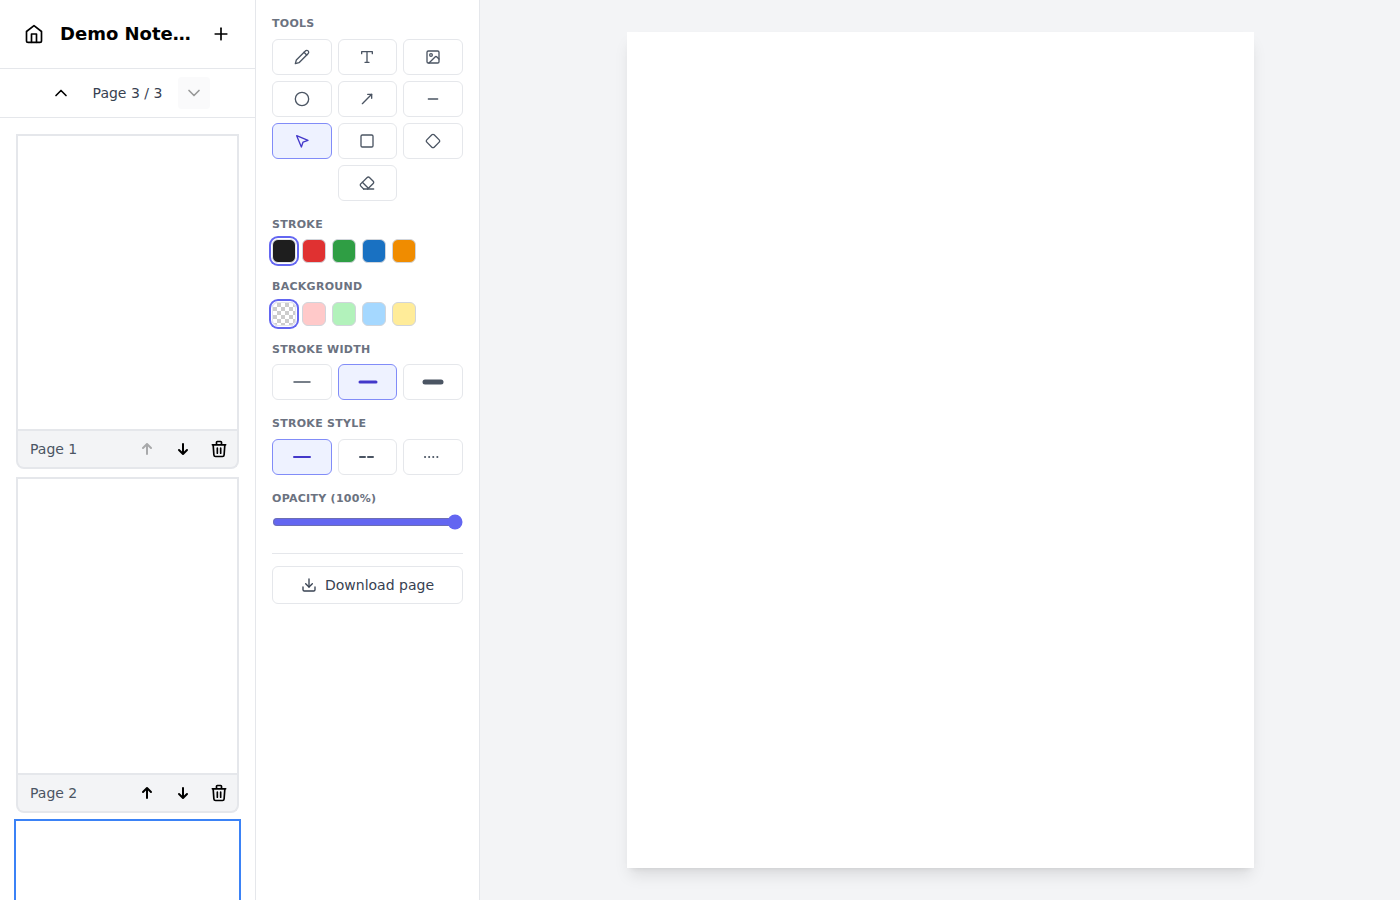
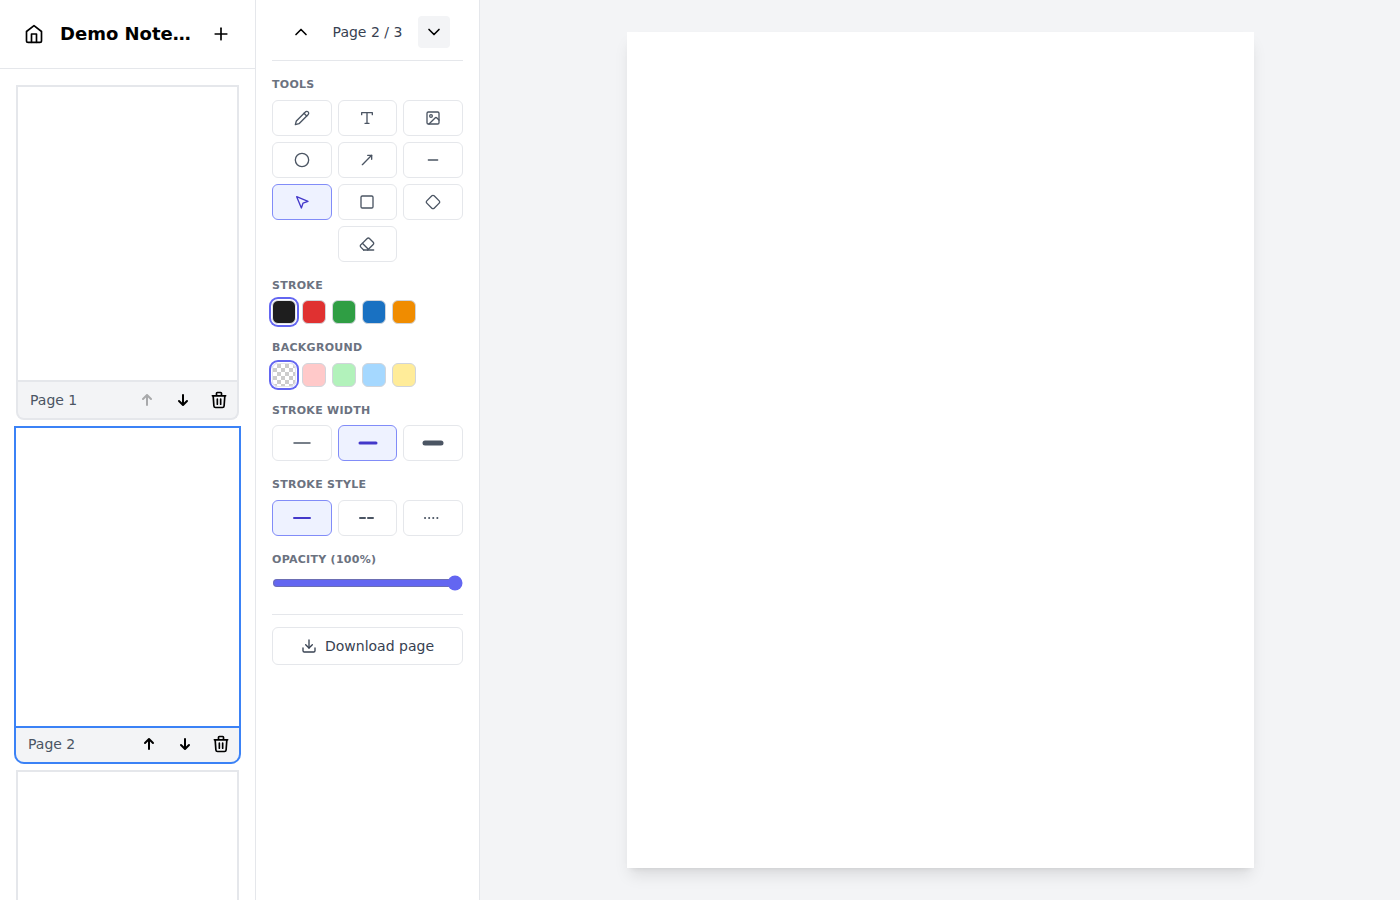
Move page nav into the tools rail, above the tools
Per review on #9: place the "Page X / N" indicator and its up/down
navigation at the top of the tools control rail (EditorControls), above
the Tools section, instead of in the preview sidebar. NotebookEditor
passes the current page number, total, and prev/next handlers down as
props. Keeps the page navigation out of the canvas column so the
page-height calculation and scroll behaviour are unaffected.

Claude-Session: https://claude.ai/code/session_01M6VdjEZY35h7x9wHv1PyAv

diff --git a/src/components/NotebookEditor.tsx b/src/components/NotebookEditor.tsx
@@ -1,7 +1,7 @@
 import { useState, useCallback, useMemo, useEffect, useRef } from 'react';
 import { Excalidraw, exportToCanvas, getCommonBounds } from '@excalidraw/excalidraw';
 import type { ExcalidrawImperativeAPI, NormalizedZoomValue } from '@excalidraw/excalidraw/types/types';
-import { ChevronUp, ChevronDown, Home } from 'lucide-react';
+import { Home } from 'lucide-react';
 import { PagePreview } from './PagePreview';
 import { EditorControls, type ControlsSnapshot } from './EditorControls';
 import { measureText, LINE_HEIGHTS } from '../lib/textMeasure';
@@ -568,30 +568,6 @@ export function NotebookEditor({ pages, onPagesChange, onBack, notebookName }: N
             </div>
           </div>
         </div>
-        {/* Page navigation: current page number + up/down between pages. Lives
-            here in the sidebar (not above the canvas) so it doesn't affect the
-            canvas area's height calculation. */}
-        <div className="flex items-center justify-center gap-4 px-4 py-2 border-b border-gray-200">
-          <button
-            onClick={goToPreviousPage}
-            disabled={currentPageIndex === 0}
-            title="Previous page"
-            className="p-1.5 rounded hover:bg-gray-100 disabled:opacity-40 disabled:cursor-not-allowed"
-          >
-            <ChevronUp className="w-5 h-5" />
-          </button>
-          <span className="text-sm font-medium text-gray-700 tabular-nums select-none">
-            Page {currentPageIndex + 1} / {pages.length}
-          </span>
-          <button
-            onClick={goToNextPage}
-            disabled={currentPageIndex === pages.length - 1}
-            title="Next page"
-            className="p-1.5 rounded hover:bg-gray-100 disabled:opacity-40 disabled:cursor-not-allowed"
-          >
-            <ChevronDown className="w-5 h-5" />
-          </button>
-        </div>
         {/* Previews Container */}
         <div className="flex-1 overflow-y-auto p-4">
           {pages.map((page, index) => (
@@ -615,6 +591,10 @@ export function NotebookEditor({ pages, onPagesChange, onBack, notebookName }: N
           overlap the page in Excalidraw's mobile layout (page < 730px wide). */}
       <EditorControls
         snapshot={snapshot}
+        currentPageNumber={currentPageIndex + 1}
+        totalPages={pages.length}
+        onPrevPage={goToPreviousPage}
+        onNextPage={goToNextPage}
         onSetTool={setTool}
         onSetStrokeColor={setStrokeColor}
         onSetBackground={setBackground}

diff --git a/src/components/EditorControls.tsx b/src/components/EditorControls.tsx
@@ -12,6 +12,8 @@ import {
   PenTool,
   Code,
   Download,
+  ChevronUp,
+  ChevronDown,
 } from 'lucide-react';
 import type { ComponentType } from 'react';
 
@@ -35,6 +37,10 @@ export interface ControlsSnapshot {
 
 interface EditorControlsProps {
   snapshot: ControlsSnapshot;
+  currentPageNumber: number;
+  totalPages: number;
+  onPrevPage: () => void;
+  onNextPage: () => void;
   onSetTool: (tool: string) => void;
   onSetStrokeColor: (color: string) => void;
   onSetBackground: (color: string) => void;
@@ -225,6 +231,10 @@ function PillButton({
 
 export function EditorControls({
   snapshot,
+  currentPageNumber,
+  totalPages,
+  onPrevPage,
+  onNextPage,
   onSetTool,
   onSetStrokeColor,
   onSetBackground,
@@ -260,6 +270,30 @@ export function EditorControls({
   return (
     <div className="w-56 min-w-[14rem] flex flex-col bg-white border-r border-gray-200 overflow-y-auto">
       <div className="p-4">
+        {/* Page navigation: current page number + up/down between pages, above
+            the tools. */}
+        <div className="flex items-center justify-center gap-4 mb-4 pb-3 border-b border-gray-200">
+          <button
+            onClick={onPrevPage}
+            disabled={currentPageNumber <= 1}
+            title="Previous page"
+            className="p-1.5 rounded hover:bg-gray-100 disabled:opacity-40 disabled:cursor-not-allowed"
+          >
+            <ChevronUp className="w-5 h-5" />
+          </button>
+          <span className="text-sm font-medium text-gray-700 tabular-nums select-none">
+            Page {currentPageNumber} / {totalPages}
+          </span>
+          <button
+            onClick={onNextPage}
+            disabled={currentPageNumber >= totalPages}
+            title="Next page"
+            className="p-1.5 rounded hover:bg-gray-100 disabled:opacity-40 disabled:cursor-not-allowed"
+          >
+            <ChevronDown className="w-5 h-5" />
+          </button>
+        </div>
+
         <Section title="Tools">
           {/* Numpad layout: tools 1–9 in the grid, eraser (0) in its own row. */}
           <div className="grid grid-cols-3 gap-1.5">
